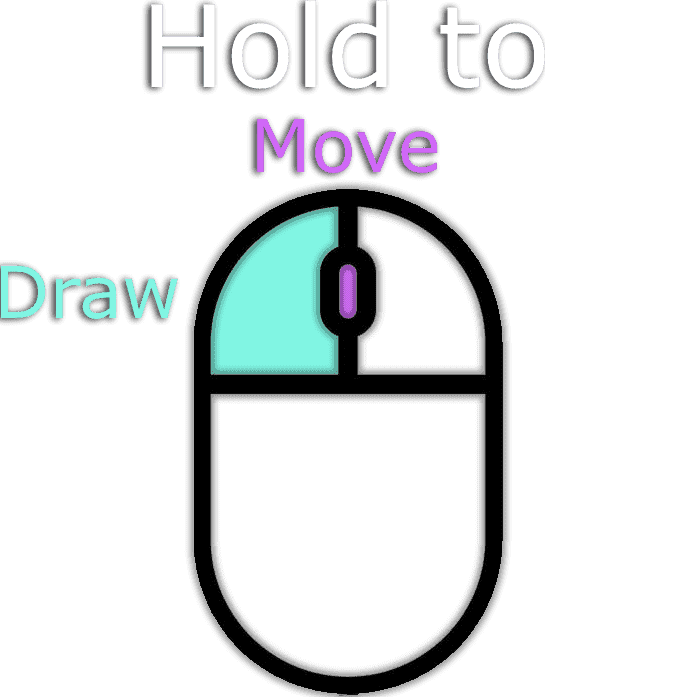
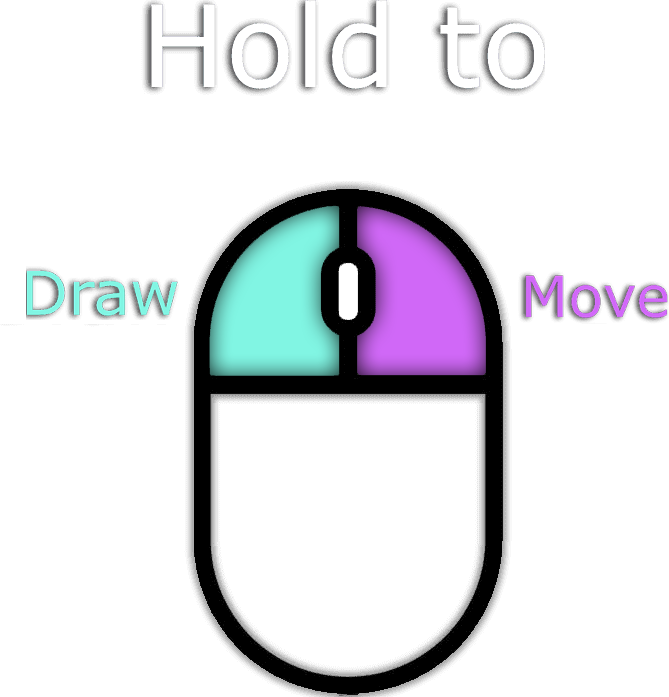
feat: Modified middle button to right button

Changed region(s): [[0.0, 0.0, 1.0, 1.0], [0.6278, 0.0, 0.8072, 0.1506], [0.2093, 0.0, 0.2392, 0.1506]]

diff --git a/components/base/Canvas.vue b/components/base/Canvas.vue
@@ -15,7 +15,7 @@ let img: fabric.Image;
 let isDragging = false;
 let lastPosX: number;
 let lastPosY: number;
-const middleMousePressed = ref(false);
+const rightMousePressed = ref(false);
 const mode = ref<"pan" | "draw">("pan");
 const lineWidth = ref<string>("20");
 const colorHEX = ref<string>("ffffff");
@@ -86,7 +86,7 @@ const onMouseDown = (opt: fabric.IEvent<MouseEvent>) => {
 };
 
 const onMouseMove = (opt: fabric.IEvent<MouseEvent>) => {
-	if (isDragging && middleMousePressed.value) {
+	if (isDragging && rightMousePressed.value) {
 		const { clientX, clientY } = getClientPosition(opt.e);
 		const transform = canvas.viewportTransform as fabric.Point;
 		transform[4] += clientX - lastPosX;
@@ -116,10 +116,10 @@ const initZoom = (): number => {
 	return zoom;
 };
 
-// Handle middle mouse button events
-const onMiddleMouseDown = (e: MouseEvent) => {
-	if (e.button === 1) {
-		middleMousePressed.value = true;
+// Handle right mouse button events
+const onRightMouseDown = (e: MouseEvent) => {
+	if (e.button === 2) {
+		rightMousePressed.value = true;
 		isDragging = true;
 		const { clientX, clientY } = getClientPosition(e);
 		lastPosX = clientX;
@@ -131,9 +131,9 @@ const onMiddleMouseDown = (e: MouseEvent) => {
 	}
 };
 
-const onMiddleMouseUp = (e: MouseEvent) => {
-	if (e.button === 1) {
-		middleMousePressed.value = false;
+const onRightMouseUp = (e: MouseEvent) => {
+	if (e.button === 2) {
+		rightMousePressed.value = false;
 		isDragging = false;
 		canvas.selection = true;
 
@@ -169,8 +169,8 @@ const initializeCanvas = () => {
 		canvas.requestRenderAll();
 	});
 
-	window.addEventListener("mousedown", onMiddleMouseDown);
-	window.addEventListener("mouseup", onMiddleMouseUp);
+	window.addEventListener("mousedown", onRightMouseDown);
+	window.addEventListener("mouseup", onRightMouseUp);
 
 	// Watch lineWidth and update currentPath strokeWidth in real-time
 	watchEffect(() => {
